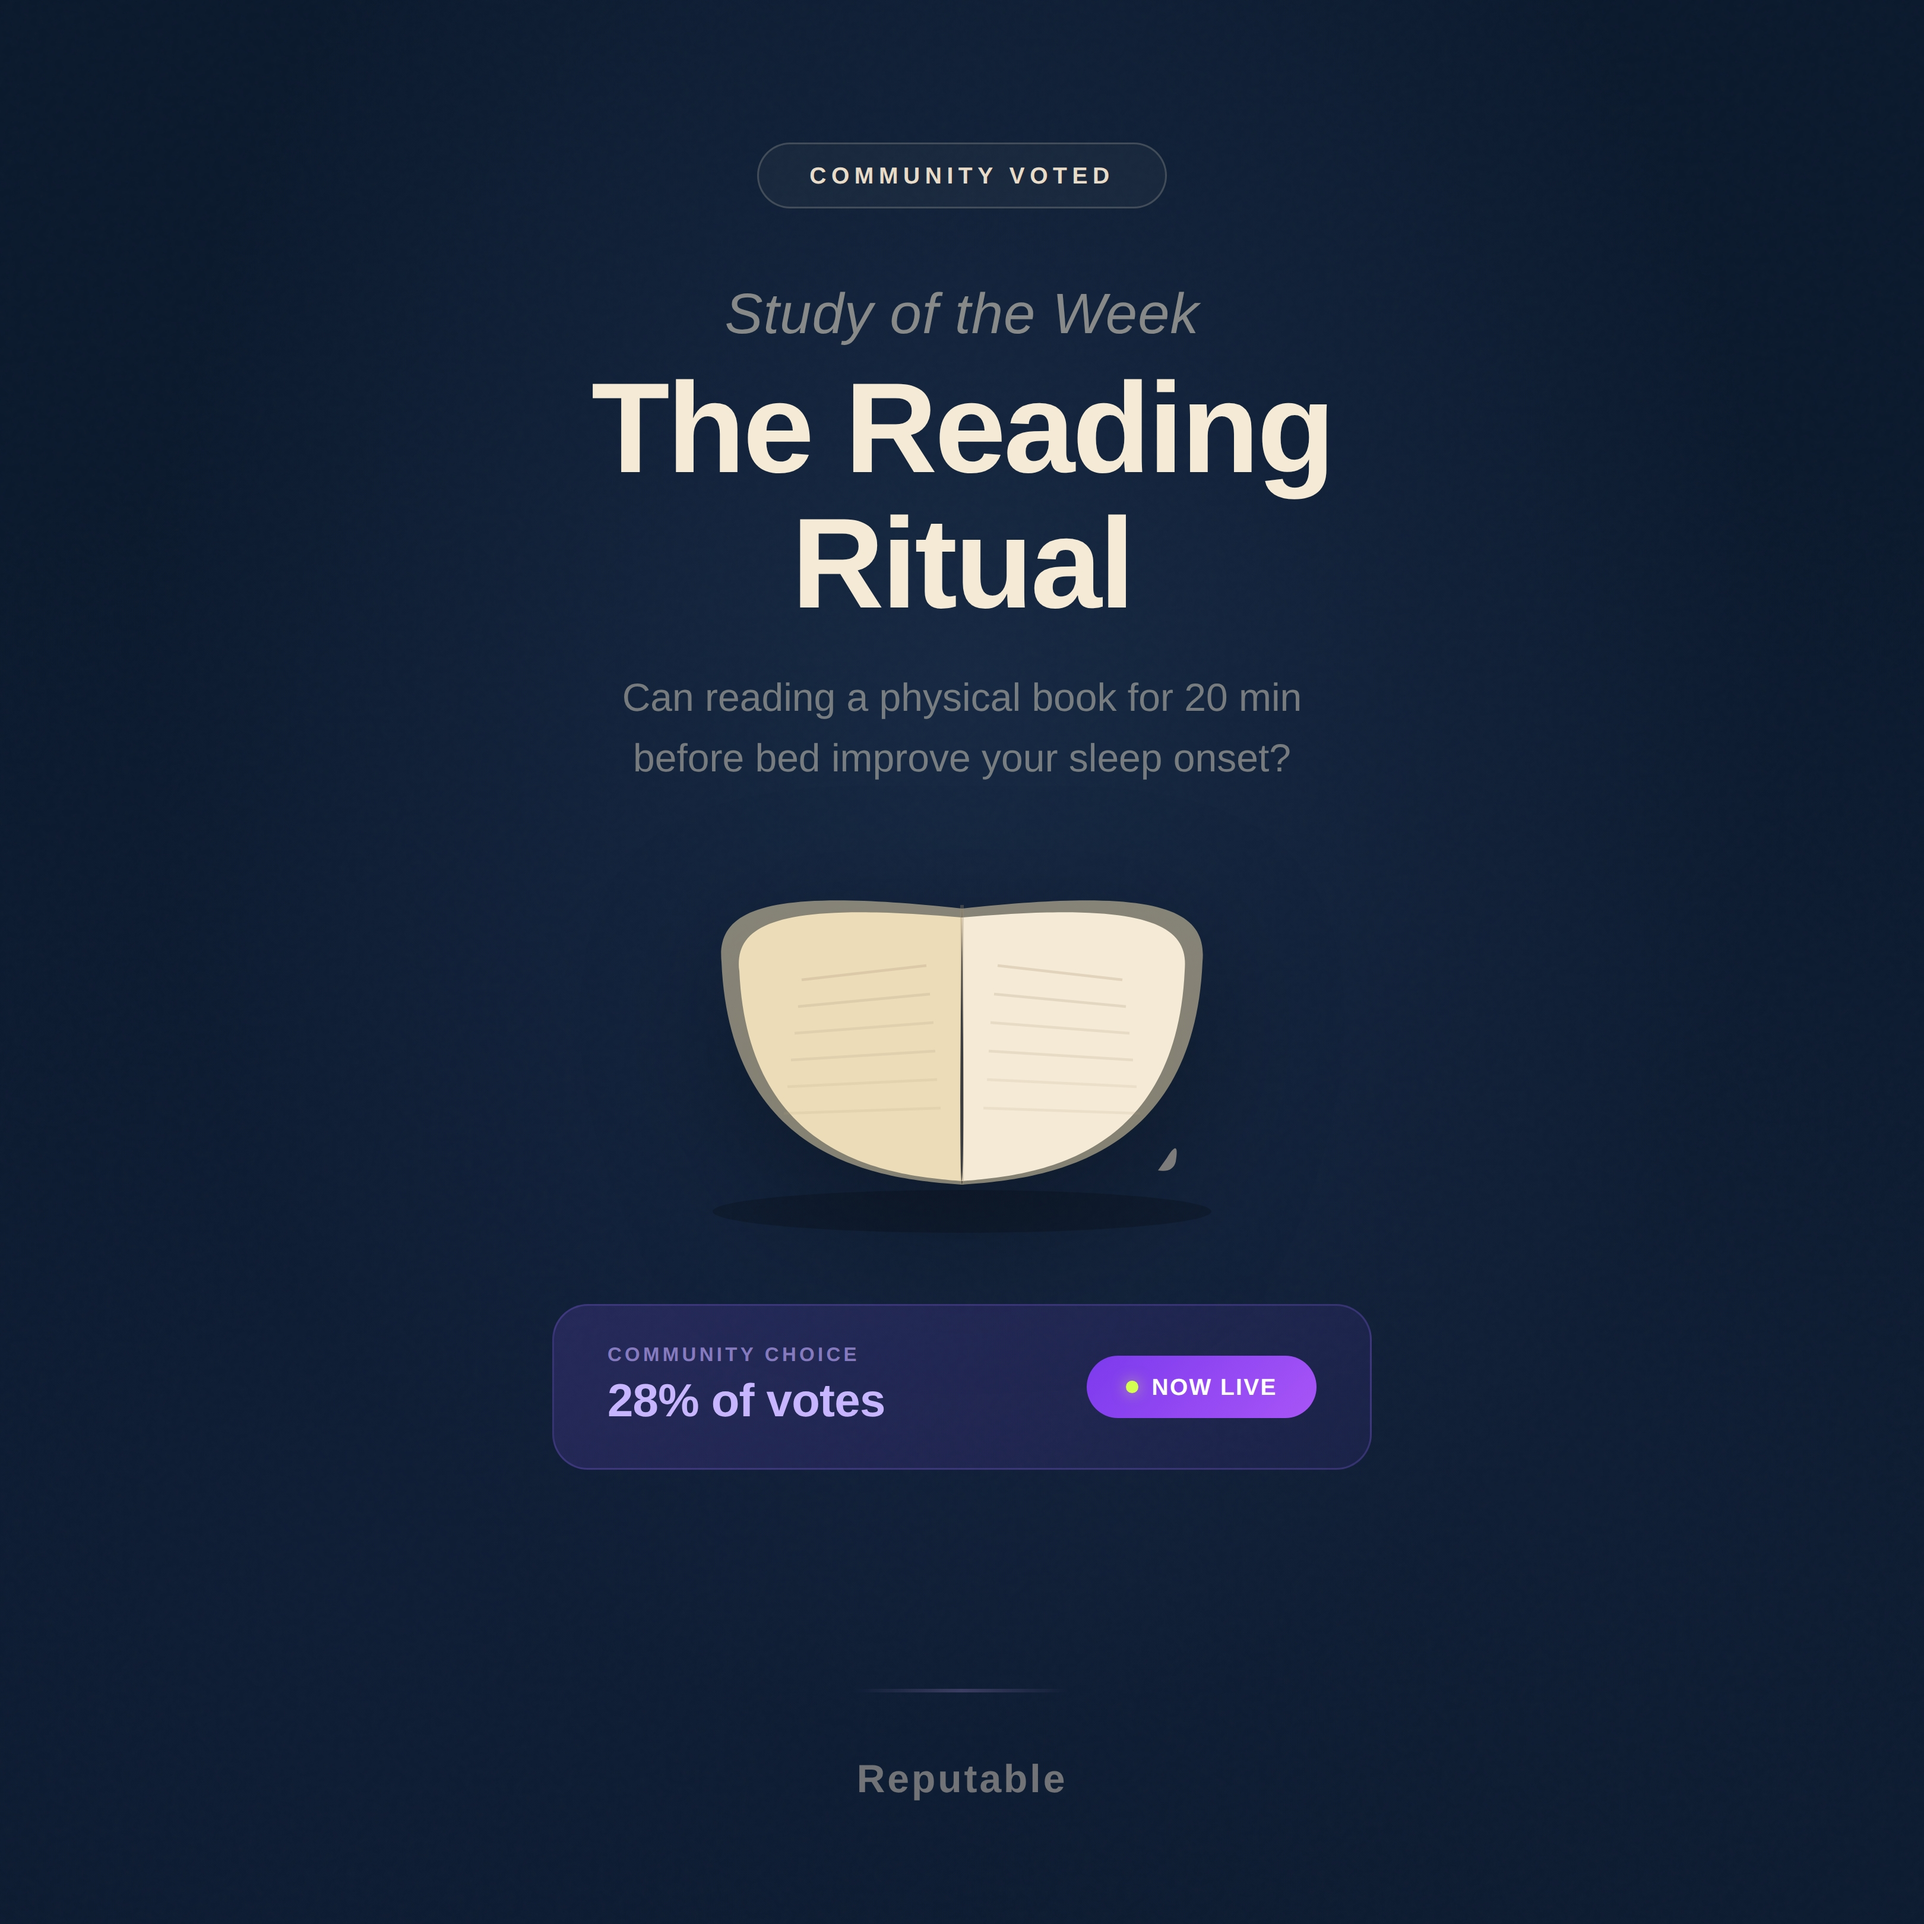
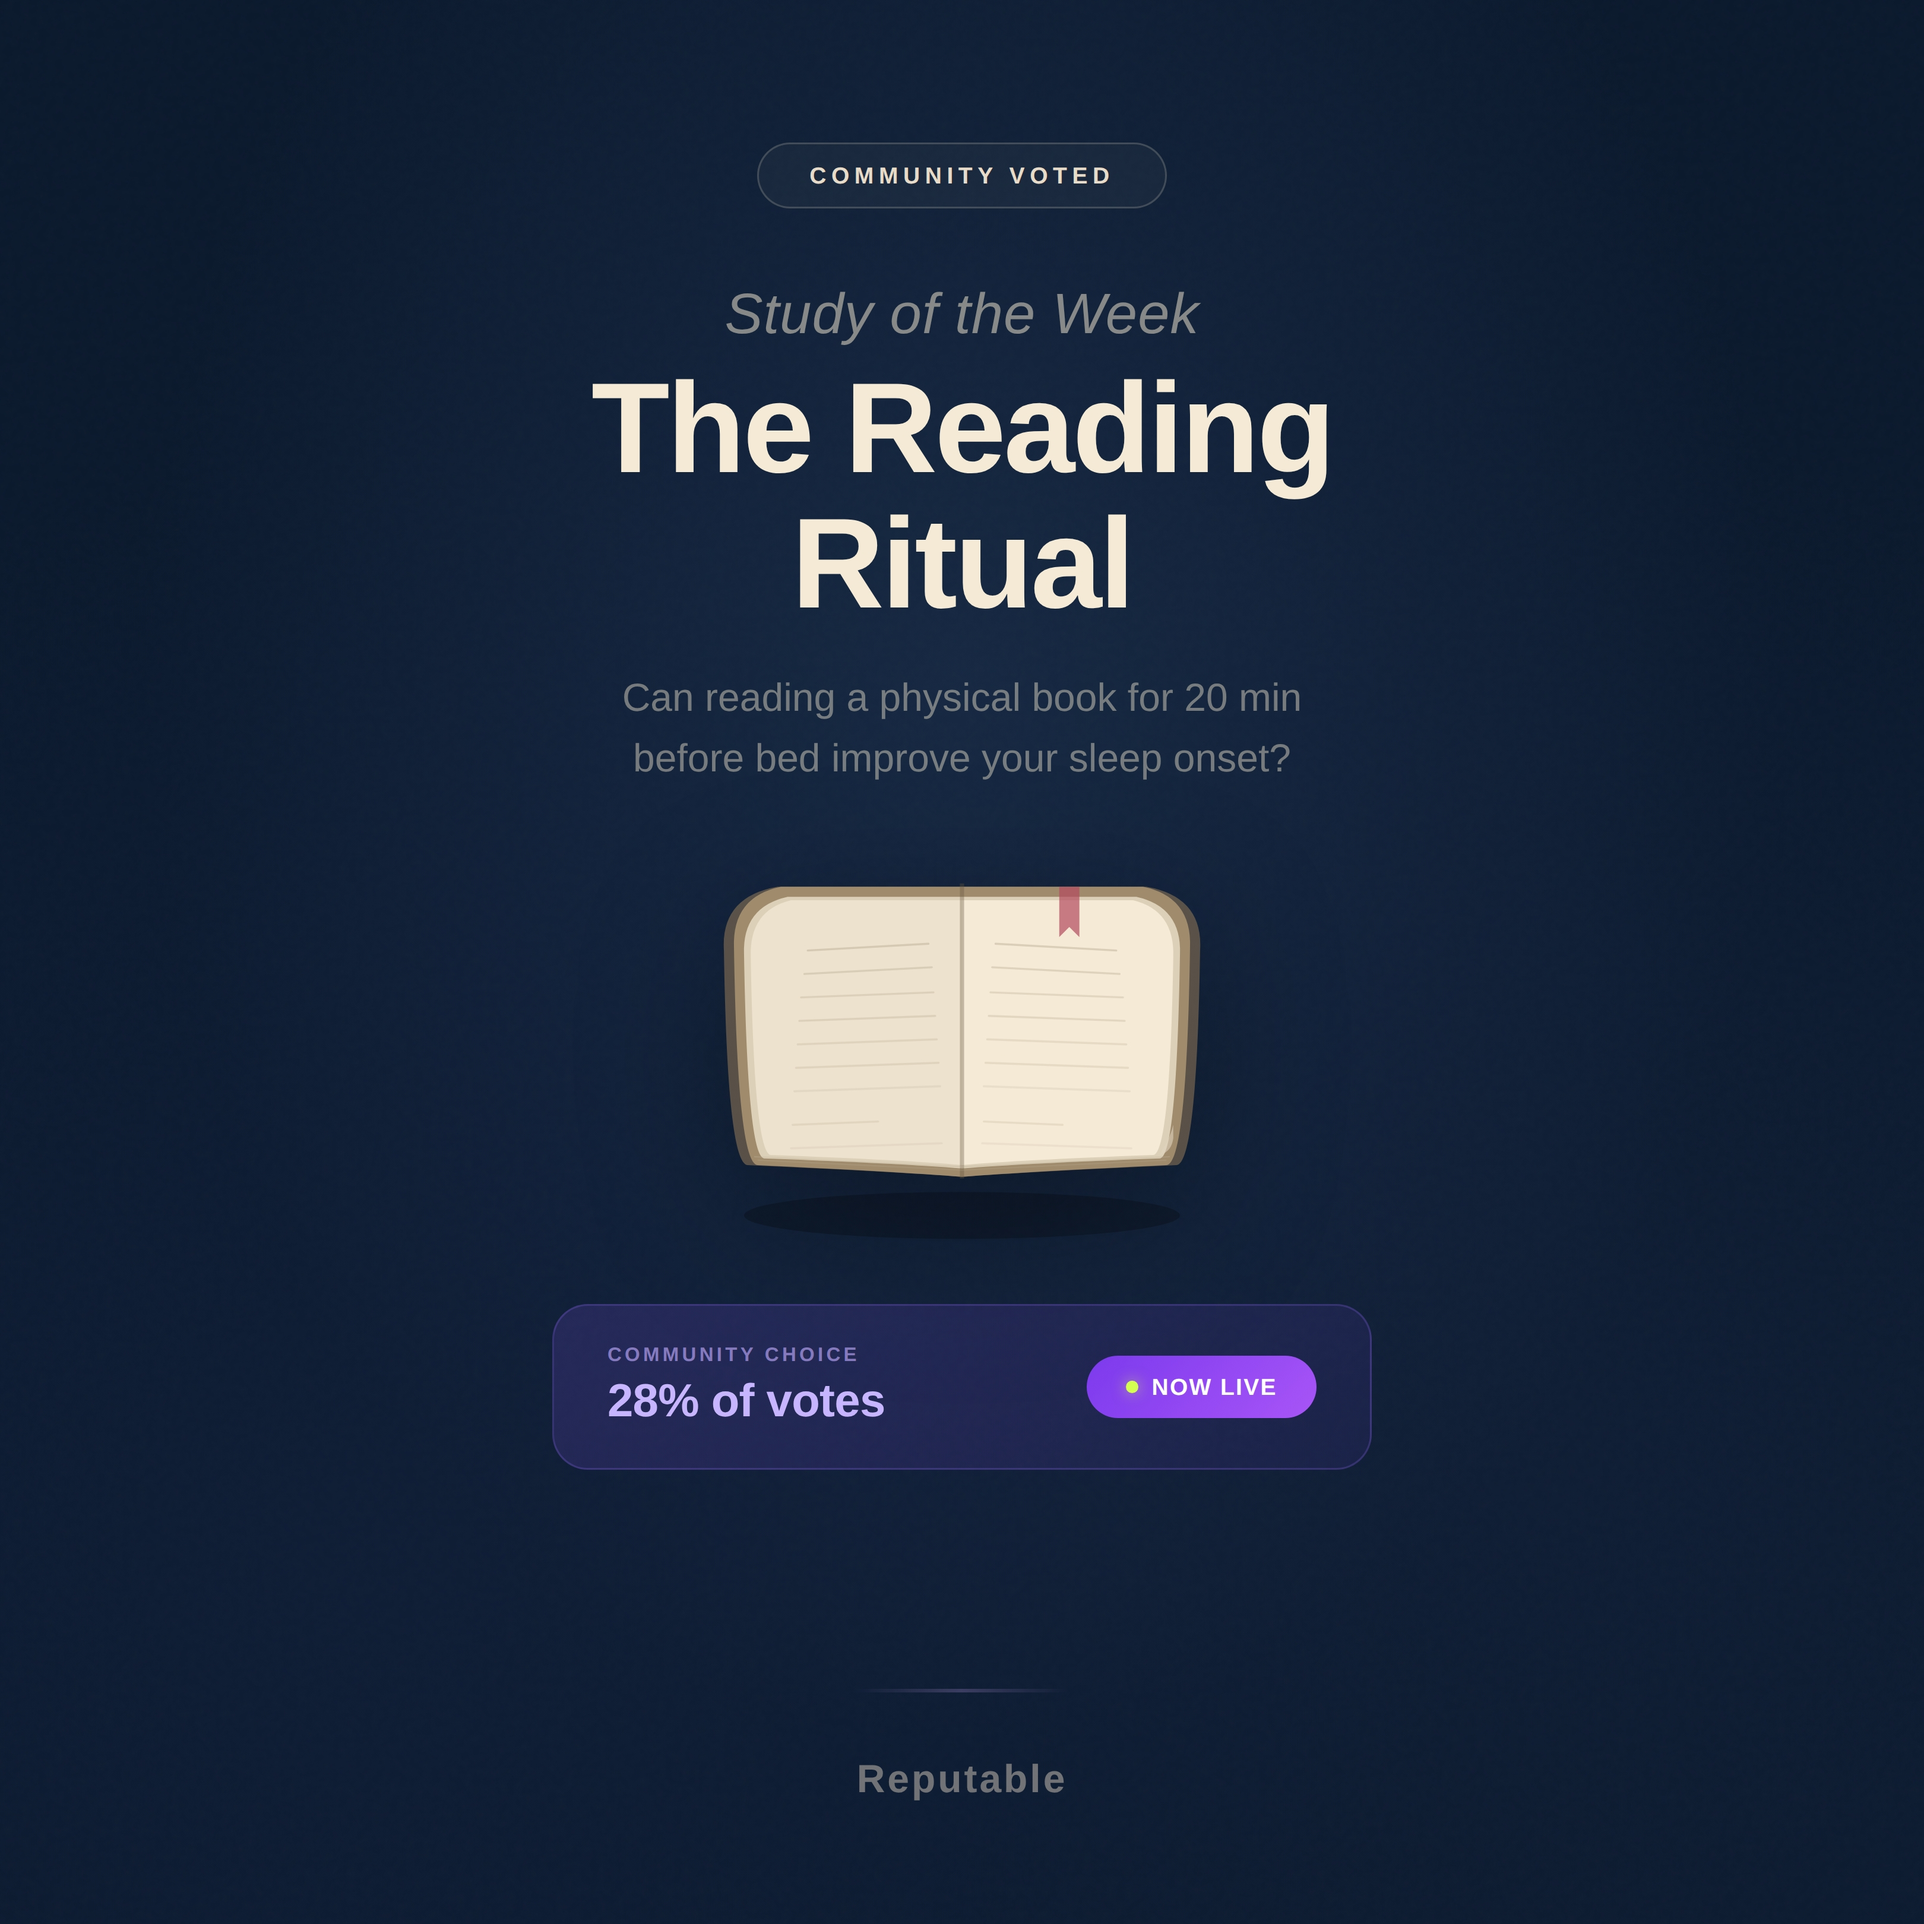
Improve book illustration with hardback covers and bookmark
Redesigned SVG book: visible leather hardback covers, cleaner
rectangular pages, text lines with paragraph breaks, red bookmark
ribbon, page curl, and stacked page edges for depth.

https://claude.ai/code/session_01TfrrBTyPYsf3Z7Zsrx7aQ5

Changed region(s): [[0.3741, 0.4364, 0.6235, 0.6235]]

diff --git a/reading-ritual-post.html b/reading-ritual-post.html
@@ -218,43 +218,78 @@
 
   <!-- Book illustration (inline SVG) -->
   <div class="book-wrap">
-    <svg width="320" height="220" viewBox="0 0 320 220" fill="none" xmlns="http://www.w3.org/2000/svg">
-      <!-- Book spine shadow -->
-      <ellipse cx="160" cy="200" rx="140" ry="12" fill="rgba(0,0,0,0.2)"/>
+    <svg width="340" height="240" viewBox="0 0 340 240" fill="none" xmlns="http://www.w3.org/2000/svg">
+      <!-- Soft shadow under the book -->
+      <ellipse cx="170" cy="218" rx="130" ry="14" fill="rgba(0,0,0,0.25)"/>
 
-      <!-- Left page (back) -->
-      <path d="M160 30 C 160 30, 158 180, 160 185 C 120 182, 30 175, 25 60 C 22 30, 50 18, 160 30Z" fill="#d4c4a0" opacity="0.6"/>
+      <!-- == LEFT COVER (hardback visible edge) == -->
+      <path d="M170 22 L170 195 Q130 192 42 188 Q30 187 28 60 Q26 28 60 22 Z"
+            fill="#8b7355" opacity="0.6"/>
+      <!-- Left cover face -->
+      <path d="M170 22 L170 195 Q132 192 48 188 Q36 187 34 58 Q33 28 62 22 Z"
+            fill="#a08b6d"/>
 
-      <!-- Right page (back) -->
-      <path d="M160 30 C 160 30, 162 180, 160 185 C 200 182, 290 175, 295 60 C 298 30, 270 18, 160 30Z" fill="#d4c4a0" opacity="0.6"/>
+      <!-- == LEFT PAGE (back) == -->
+      <path d="M170 28 L170 190 Q134 187 52 184 Q42 183 40 62 Q39 34 66 28 Z"
+            fill="#ddd0b8"/>
 
-      <!-- Left page (front) -->
-      <path d="M160 35 C 160 35, 158 178, 160 183 C 125 180, 40 174, 35 65 C 32 38, 58 26, 160 35Z" fill="#ecdcb8"/>
+      <!-- == LEFT PAGE (front) == -->
+      <path d="M170 30 L170 188 Q136 185 56 182 Q46 181 44 64 Q43 36 68 30 Z"
+            fill="#ede2ce"/>
 
-      <!-- Left page lines -->
-      <line x1="70" y1="70" x2="140" y2="62" stroke="rgba(180,160,130,0.3)" stroke-width="1.5"/>
-      <line x1="68" y1="85" x2="142" y2="78" stroke="rgba(180,160,130,0.25)" stroke-width="1.5"/>
-      <line x1="66" y1="100" x2="144" y2="94" stroke="rgba(180,160,130,0.2)" stroke-width="1.5"/>
-      <line x1="64" y1="115" x2="145" y2="110" stroke="rgba(180,160,130,0.2)" stroke-width="1.5"/>
-      <line x1="62" y1="130" x2="146" y2="126" stroke="rgba(180,160,130,0.15)" stroke-width="1.5"/>
-      <line x1="60" y1="145" x2="148" y2="142" stroke="rgba(180,160,130,0.15)" stroke-width="1.5"/>
+      <!-- Left page text lines -->
+      <line x1="78" y1="60" x2="150" y2="56" stroke="rgba(170,155,130,0.35)" stroke-width="1.2" stroke-linecap="round"/>
+      <line x1="76" y1="74" x2="152" y2="70" stroke="rgba(170,155,130,0.3)" stroke-width="1.2" stroke-linecap="round"/>
+      <line x1="74" y1="88" x2="153" y2="85" stroke="rgba(170,155,130,0.25)" stroke-width="1.2" stroke-linecap="round"/>
+      <line x1="73" y1="102" x2="154" y2="99" stroke="rgba(170,155,130,0.25)" stroke-width="1.2" stroke-linecap="round"/>
+      <line x1="72" y1="116" x2="155" y2="113" stroke="rgba(170,155,130,0.2)" stroke-width="1.2" stroke-linecap="round"/>
+      <line x1="71" y1="130" x2="156" y2="127" stroke="rgba(170,155,130,0.2)" stroke-width="1.2" stroke-linecap="round"/>
+      <line x1="70" y1="144" x2="157" y2="141" stroke="rgba(170,155,130,0.15)" stroke-width="1.2" stroke-linecap="round"/>
+      <!-- Short paragraph break -->
+      <line x1="69" y1="164" x2="120" y2="162" stroke="rgba(170,155,130,0.18)" stroke-width="1.2" stroke-linecap="round"/>
+      <line x1="68" y1="178" x2="158" y2="175" stroke="rgba(170,155,130,0.12)" stroke-width="1.2" stroke-linecap="round"/>
 
-      <!-- Right page (front) -->
-      <path d="M160 35 C 160 35, 162 178, 160 183 C 195 180, 280 174, 285 65 C 288 38, 262 26, 160 35Z" fill="#f5ead6"/>
+      <!-- == RIGHT COVER (hardback visible edge) == -->
+      <path d="M170 22 L170 195 Q210 192 298 188 Q310 187 312 60 Q314 28 280 22 Z"
+            fill="#8b7355" opacity="0.6"/>
+      <!-- Right cover face -->
+      <path d="M170 22 L170 195 Q208 192 292 188 Q304 187 306 58 Q307 28 278 22 Z"
+            fill="#a08b6d"/>
 
-      <!-- Right page lines -->
-      <line x1="180" y1="62" x2="250" y2="70" stroke="rgba(180,160,130,0.3)" stroke-width="1.5"/>
-      <line x1="178" y1="78" x2="252" y2="85" stroke="rgba(180,160,130,0.25)" stroke-width="1.5"/>
-      <line x1="176" y1="94" x2="254" y2="100" stroke="rgba(180,160,130,0.2)" stroke-width="1.5"/>
-      <line x1="175" y1="110" x2="256" y2="115" stroke="rgba(180,160,130,0.2)" stroke-width="1.5"/>
-      <line x1="174" y1="126" x2="258" y2="130" stroke="rgba(180,160,130,0.15)" stroke-width="1.5"/>
-      <line x1="172" y1="142" x2="260" y2="145" stroke="rgba(180,160,130,0.15)" stroke-width="1.5"/>
+      <!-- == RIGHT PAGE (back) == -->
+      <path d="M170 28 L170 190 Q206 187 288 184 Q298 183 300 62 Q301 34 274 28 Z"
+            fill="#ddd0b8"/>
 
-      <!-- Spine center line -->
-      <path d="M160 28 C 160 28, 160 180, 160 185" stroke="rgba(160,140,110,0.3)" stroke-width="2"/>
+      <!-- == RIGHT PAGE (front) == -->
+      <path d="M170 30 L170 188 Q204 185 284 182 Q294 181 296 64 Q297 36 272 30 Z"
+            fill="#f5ead6"/>
 
-      <!-- Page curl hint (right) -->
-      <path d="M275 170 C 278 165, 282 160, 280 172 C 279 176, 276 178, 270 177" fill="#e8d8c0" opacity="0.5"/>
+      <!-- Right page text lines -->
+      <line x1="190" y1="56" x2="262" y2="60" stroke="rgba(170,155,130,0.35)" stroke-width="1.2" stroke-linecap="round"/>
+      <line x1="188" y1="70" x2="264" y2="74" stroke="rgba(170,155,130,0.3)" stroke-width="1.2" stroke-linecap="round"/>
+      <line x1="187" y1="85" x2="266" y2="88" stroke="rgba(170,155,130,0.25)" stroke-width="1.2" stroke-linecap="round"/>
+      <line x1="186" y1="99" x2="267" y2="102" stroke="rgba(170,155,130,0.25)" stroke-width="1.2" stroke-linecap="round"/>
+      <line x1="185" y1="113" x2="268" y2="116" stroke="rgba(170,155,130,0.2)" stroke-width="1.2" stroke-linecap="round"/>
+      <line x1="184" y1="127" x2="269" y2="130" stroke="rgba(170,155,130,0.2)" stroke-width="1.2" stroke-linecap="round"/>
+      <line x1="183" y1="141" x2="270" y2="144" stroke="rgba(170,155,130,0.15)" stroke-width="1.2" stroke-linecap="round"/>
+      <!-- Short line (paragraph end) -->
+      <line x1="183" y1="162" x2="230" y2="164" stroke="rgba(170,155,130,0.18)" stroke-width="1.2" stroke-linecap="round"/>
+      <line x1="182" y1="175" x2="271" y2="178" stroke="rgba(170,155,130,0.12)" stroke-width="1.2" stroke-linecap="round"/>
+
+      <!-- == SPINE == -->
+      <line x1="170" y1="20" x2="170" y2="196" stroke="rgba(100,85,60,0.35)" stroke-width="2.5"/>
+
+      <!-- == PAGE CURL (bottom-right) == -->
+      <path d="M290 178 Q294 172 296 164 L296 172 Q295 180 288 182 Z" fill="#e0d4be" opacity="0.6"/>
+
+      <!-- == Subtle inner page edges (stacked pages look) == -->
+      <line x1="46" y1="183" x2="170" y2="189" stroke="rgba(190,178,155,0.3)" stroke-width="0.8"/>
+      <line x1="48" y1="185" x2="170" y2="191" stroke="rgba(190,178,155,0.2)" stroke-width="0.8"/>
+      <line x1="170" y1="189" x2="294" y2="183" stroke="rgba(190,178,155,0.3)" stroke-width="0.8"/>
+      <line x1="170" y1="191" x2="292" y2="185" stroke="rgba(190,178,155,0.2)" stroke-width="0.8"/>
+
+      <!-- == Bookmark ribbon == -->
+      <path d="M228 22 L228 52 L234 46 L240 52 L240 22" fill="#b44a5e" opacity="0.7"/>
     </svg>
   </div>
 
